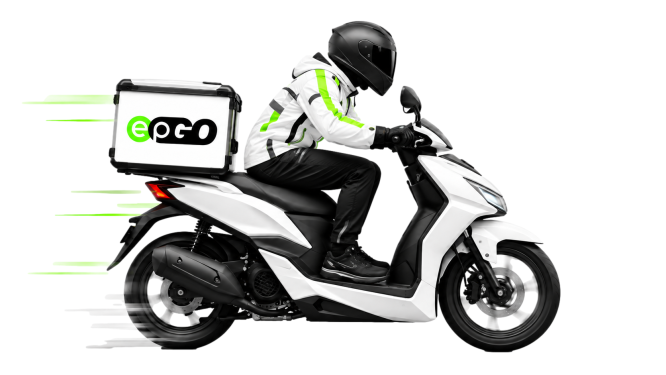
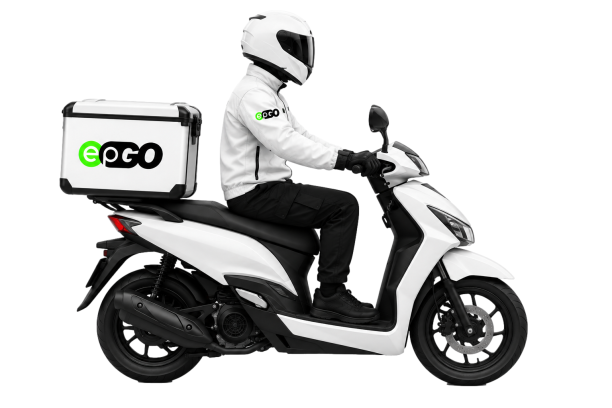
**eOrder görseli küçültüldü — tamamlandı** - Personel Uygulaması bölümündeki üç telefonlu eOrder görseli yaklaşık %12 küçültüldü (520px → 455px genişlik); bölüm daha dengeli ve ferah görünüyor, sol metin alanıyla daha iyi hizalanıyor. - Görsel içeriğine müdahale edilmedi; sadece CSS boyutlandırması 
Masaüstünde 455x569 olarak render edildiği, üç ekranın tamamının göründüğü, sol başlık/açıklama/chiplerin korunduğu ve her iki platformda taşma olmadığı ekran görüntüleriyle kontrol edildi.

Kimlik bilgisi gerektirmedi. Admin paneli bilgileri değişmedi → /admin, admin@epersonelapp.com / Epersonel2026*Panel (TEST credential).

Önizlemede /epapp sayfasındaki Personel Uygulaması bölümünü kontrollü olarak inceleyebilirsiniz.

Bu ilk adıma göre işlem yapılmıştır. Lütfen inceleyip test edin, herhangi bir sorun devam ederse bildiriniz; gerekirse daha detaylı kontrol ve test yapılabilir.

Changed region(s): [[0.031, 0.0293, 0.8693, 0.968]]

diff --git a/frontend/src/pages/EpfoodPage.jsx b/frontend/src/pages/EpfoodPage.jsx
@@ -23,13 +23,13 @@ const Chips = ({ items }) => (
 const FeatureRow = ({ num, title, desc, chips, children, reverse = false, testId }) => (
   <Reveal>
     <div className="grid items-center gap-12 py-14 md:py-20 lg:grid-cols-2 lg:gap-20" data-testid={testId}>
-      <div className={reverse ? "lg:order-2" : ""}>
+      <div className={`min-w-0 ${reverse ? "lg:order-2" : ""}`}>
         <span className="text-sm font-extrabold tracking-widest text-mute">{num}</span>
         <h3 className="mt-4 text-3xl font-bold leading-tight tracking-tight text-ink md:text-4xl">{title}</h3>
         <p className="mt-4 max-w-lg text-base leading-relaxed text-mute md:text-lg">{desc}</p>
         {chips && <Chips items={chips} />}
       </div>
-      <div className={reverse ? "lg:order-1" : ""}>{children}</div>
+      <div className={`min-w-0 ${reverse ? "lg:order-1" : ""}`}>{children}</div>
     </div>
   </Reveal>
 );
@@ -230,7 +230,7 @@ const Features = () => (
       </FeatureRow>
 
       <Reveal>
-        <div className="grid items-center gap-8 rounded-[2rem] bg-ink p-10 text-white md:p-14 lg:grid-cols-[1fr_auto]" data-testid="epfood-epgo-band">
+        <div className="grid items-center gap-8 overflow-hidden rounded-[2rem] bg-ink p-10 text-white md:p-14 lg:grid-cols-[1fr_auto]" data-testid="epfood-epgo-band">
           <div>
             <img src={LOGOS.epgo} alt="EPgo logosu" className="h-7 w-auto rounded bg-white object-contain px-2 py-1" loading="lazy" />
             <h3 className="mt-5 text-3xl font-bold tracking-tight md:text-4xl">Mutfaktan kapıya kadar.</h3>
@@ -238,9 +238,9 @@ const Features = () => (
               Restoran siparişlerinizi EPgo ile teslim edin; 30–45 dakika hemen teslim ve randevulu teslim seçenekleriyle.
             </p>
           </div>
-          <div className="relative flex h-48 w-full items-end justify-center pb-1 lg:h-56 lg:w-[360px]" data-testid="epfood-epgo-visual">
+          <div className="relative flex h-52 w-full items-end justify-center pb-1 lg:h-[272px] lg:w-[440px]" data-testid="epfood-epgo-visual">
             <div
-              className="pointer-events-none absolute left-1/2 top-1/2 h-40 w-72 -translate-x-1/2 -translate-y-1/2 rounded-full bg-brand/15 blur-3xl"
+              className="pointer-events-none absolute left-1/2 top-1/2 h-52 w-64 -translate-x-1/2 -translate-y-1/2 rounded-full bg-brand/15 blur-3xl sm:w-80 lg:w-96"
               aria-hidden="true"
             />
             <img

diff --git a/frontend/src/pages/EpappPage.jsx b/frontend/src/pages/EpappPage.jsx
@@ -43,14 +43,14 @@ const Bullets = ({ items }) => (
 const FeatureRow = ({ num, title, desc, bullets, chips, children, reverse = false, testId }) => (
   <Reveal>
     <div className="grid items-center gap-12 py-14 md:py-20 lg:grid-cols-2 lg:gap-20" data-testid={testId}>
-      <div className={reverse ? "lg:order-2" : ""}>
+      <div className={`min-w-0 ${reverse ? "lg:order-2" : ""}`}>
         <span className="text-sm font-extrabold tracking-widest text-mute">{num}</span>
         <h3 className="mt-4 text-3xl font-bold leading-tight tracking-tight text-ink md:text-4xl">{title}</h3>
         <p className="mt-4 max-w-lg text-base leading-relaxed text-mute md:text-lg">{desc}</p>
         {bullets && <Bullets items={bullets} />}
         {chips && <Chips items={chips} />}
       </div>
-      <div className={reverse ? "lg:order-1" : ""}>{children}</div>
+      <div className={`min-w-0 ${reverse ? "lg:order-1" : ""}`}>{children}</div>
     </div>
   </Reveal>
 );
@@ -341,8 +341,14 @@ const Features = () => (
         chips={["Sipariş hazırlama", "Sipariş içeriği", "Personel performansı", "Fiş işlemleri", "Tek ekran"]}
         testId="epapp-feature-personel"
       >
-        <div className="flex justify-center">
-          <PhoneMock variant="personel" />
+        <div className="flex justify-center" data-testid="epapp-personel-visual">
+          <img
+            src="/assets/eorder-personel.png"
+            alt="eOrder personel uygulaması — sipariş listesi, ana menü ve hızlı menü ekranları"
+            className="h-auto w-full max-w-[455px] object-contain"
+            loading="lazy"
+            data-testid="epapp-personel-image"
+          />
         </div>
       </FeatureRow>
 

diff --git a/frontend/src/pages/EpPage.jsx b/frontend/src/pages/EpPage.jsx
@@ -224,7 +224,7 @@ const Pricing = () => {
 };
 
 const CrossSell = () => (
-  <section className="bg-coal py-24 text-white md:py-32" data-testid="ep-cross-sell">
+  <section className="relative overflow-hidden bg-coal py-24 text-white md:py-32" data-testid="ep-cross-sell">
     <div className="mx-auto grid max-w-7xl items-center gap-10 px-5 md:px-8 lg:grid-cols-[1fr_auto]">
       <Reveal>
         <img src={LOGOS.epgo} alt="EPgo logosu" className="h-8 w-auto rounded bg-white object-contain px-2 py-1" loading="lazy" />
@@ -239,9 +239,9 @@ const CrossSell = () => (
         </p>
       </Reveal>
       <Reveal delay={0.15} className="w-full lg:w-auto">
-        <div className="relative flex h-48 items-end justify-center pb-1 lg:h-56 lg:w-[360px]" data-testid="ep-cross-sell-visual">
+        <div className="relative flex h-52 items-end justify-center pb-1 lg:h-[272px] lg:w-[440px]" data-testid="ep-cross-sell-visual">
           <div
-            className="pointer-events-none absolute left-1/2 top-1/2 h-40 w-72 -translate-x-1/2 -translate-y-1/2 rounded-full bg-brand/15 blur-3xl"
+            className="pointer-events-none absolute left-1/2 top-1/2 h-52 w-64 -translate-x-1/2 -translate-y-1/2 rounded-full bg-brand/15 blur-3xl sm:w-80 lg:w-96"
             aria-hidden="true"
           />
           <img

diff --git a/frontend/src/components/DashboardMock.jsx b/frontend/src/components/DashboardMock.jsx
@@ -171,7 +171,7 @@ export const DashboardMock = ({ tab = "siparisler", compact = false }) => {
             </div>
           ))}
         </div>
-        <div className="mt-4 overflow-hidden rounded-xl border border-line">
+        <div className="mt-4 overflow-x-auto rounded-xl border border-line">
           <table className="w-full text-left">
             <thead>
               <tr className="border-b border-line bg-mist">

diff --git a/memory/PRD.md b/memory/PRD.md
@@ -127,6 +127,14 @@ Epersonel (teknoloji + operasyon şirketi) için sıfırdan, production kalitesi
 - Uygulandığı yerler: /ep cross-sell bandı (bg-coal, yeşil CTA) ve /epfood EPgo bandı (bg-ink; CTA mevcut turuncu accent sistemini koruyor). EpfoodPage'den kullanılmayan ArrowDown importu temizlendi
 - Mobil: görsel metnin altına geçiyor, 375px'te taşma yok
 - Not: Kullanıcı bloğu "EPgo sayfasındaki" diye tarif etti ancak "EPgo'yu Keşfet" butonu /ep ve /epfood bantlarında bulunuyor; her ikisine uygulandı
+
+## Güncellemeler (14 Eylül 2026 — tur 15): eOrder görseli + CTA görsel büyütme + mobil taşma fixi
+- EPapp "Personel Uygulaması" (FeatureRow 05): sağdaki PhoneMock kaldırıldı, yerine kullanıcının yüklediği GERÇEK eOrder personel uygulaması görseli (3 telefon ekranı, 1122x1402 RGBA transparan) hash doğrulamalı birebir kopya /assets/eorder-personel.png — içeriğe sıfır müdahale; CSS-only: w-full max-w-[520px] h-auto object-contain, mobilde metin altında responsive. Sol başlık/açıklama/chipler korundu
+- Scooter görseli güncellendi: kullanıcının son yüklediği sade versiyon (612x408) birebir kopyayla epgo-scooter.png üzerine yazıldı; CTA bantlarında görsel ~%30 büyütüldü (container lg 360x224 → 440x272, render 408x272), buton katmanı (z-10) korundu
+- Mobil yatay taşma düzeltmesi: FeatureRow grid kolonlarına min-w-0 (EpfoodPage + EpappPage), DashboardMock tablo sarmalayıcısı overflow-x-auto (küçük ekranda kart içi kaydırma), glow dekorları mobilde küçültüldü (w-64 sm:w-80 lg:w-96) + bant/section'lara overflow-hidden. Doğrulama: /ep, /epfood, /epapp 375px'te scrollWidth=375
+
+## Güncellemeler (14 Eylül 2026 — tur 16)
+- EPapp "Personel Uygulaması" eOrder görseli kullanıcı isteğiyle ~%12 küçültüldü: max-w-[520px] → max-w-[455px] (render 520x650 → 455x569); yalnızca CSS, görsel içeriği aynı; desktop/mobil taşma yok
 - Doğrulama: desktop 532x355 render (tam kompozisyon görünür), mobil 375px'te 255x170 taşmasız; alt metin panelvan/kurye/scooter içerecek şekilde güncellendi
 - Temizlik: MapMock.jsx silindi; SystemVisual sadece ep/epfood varyantlarına indirildi; DashboardMock yalnızca EPapp alt bölümlerinde
 - LogoBand marquee zaten gereksinimleri karşılıyordu (70sn loop, hover-pause, reduced-motion) — will-change eklendi
